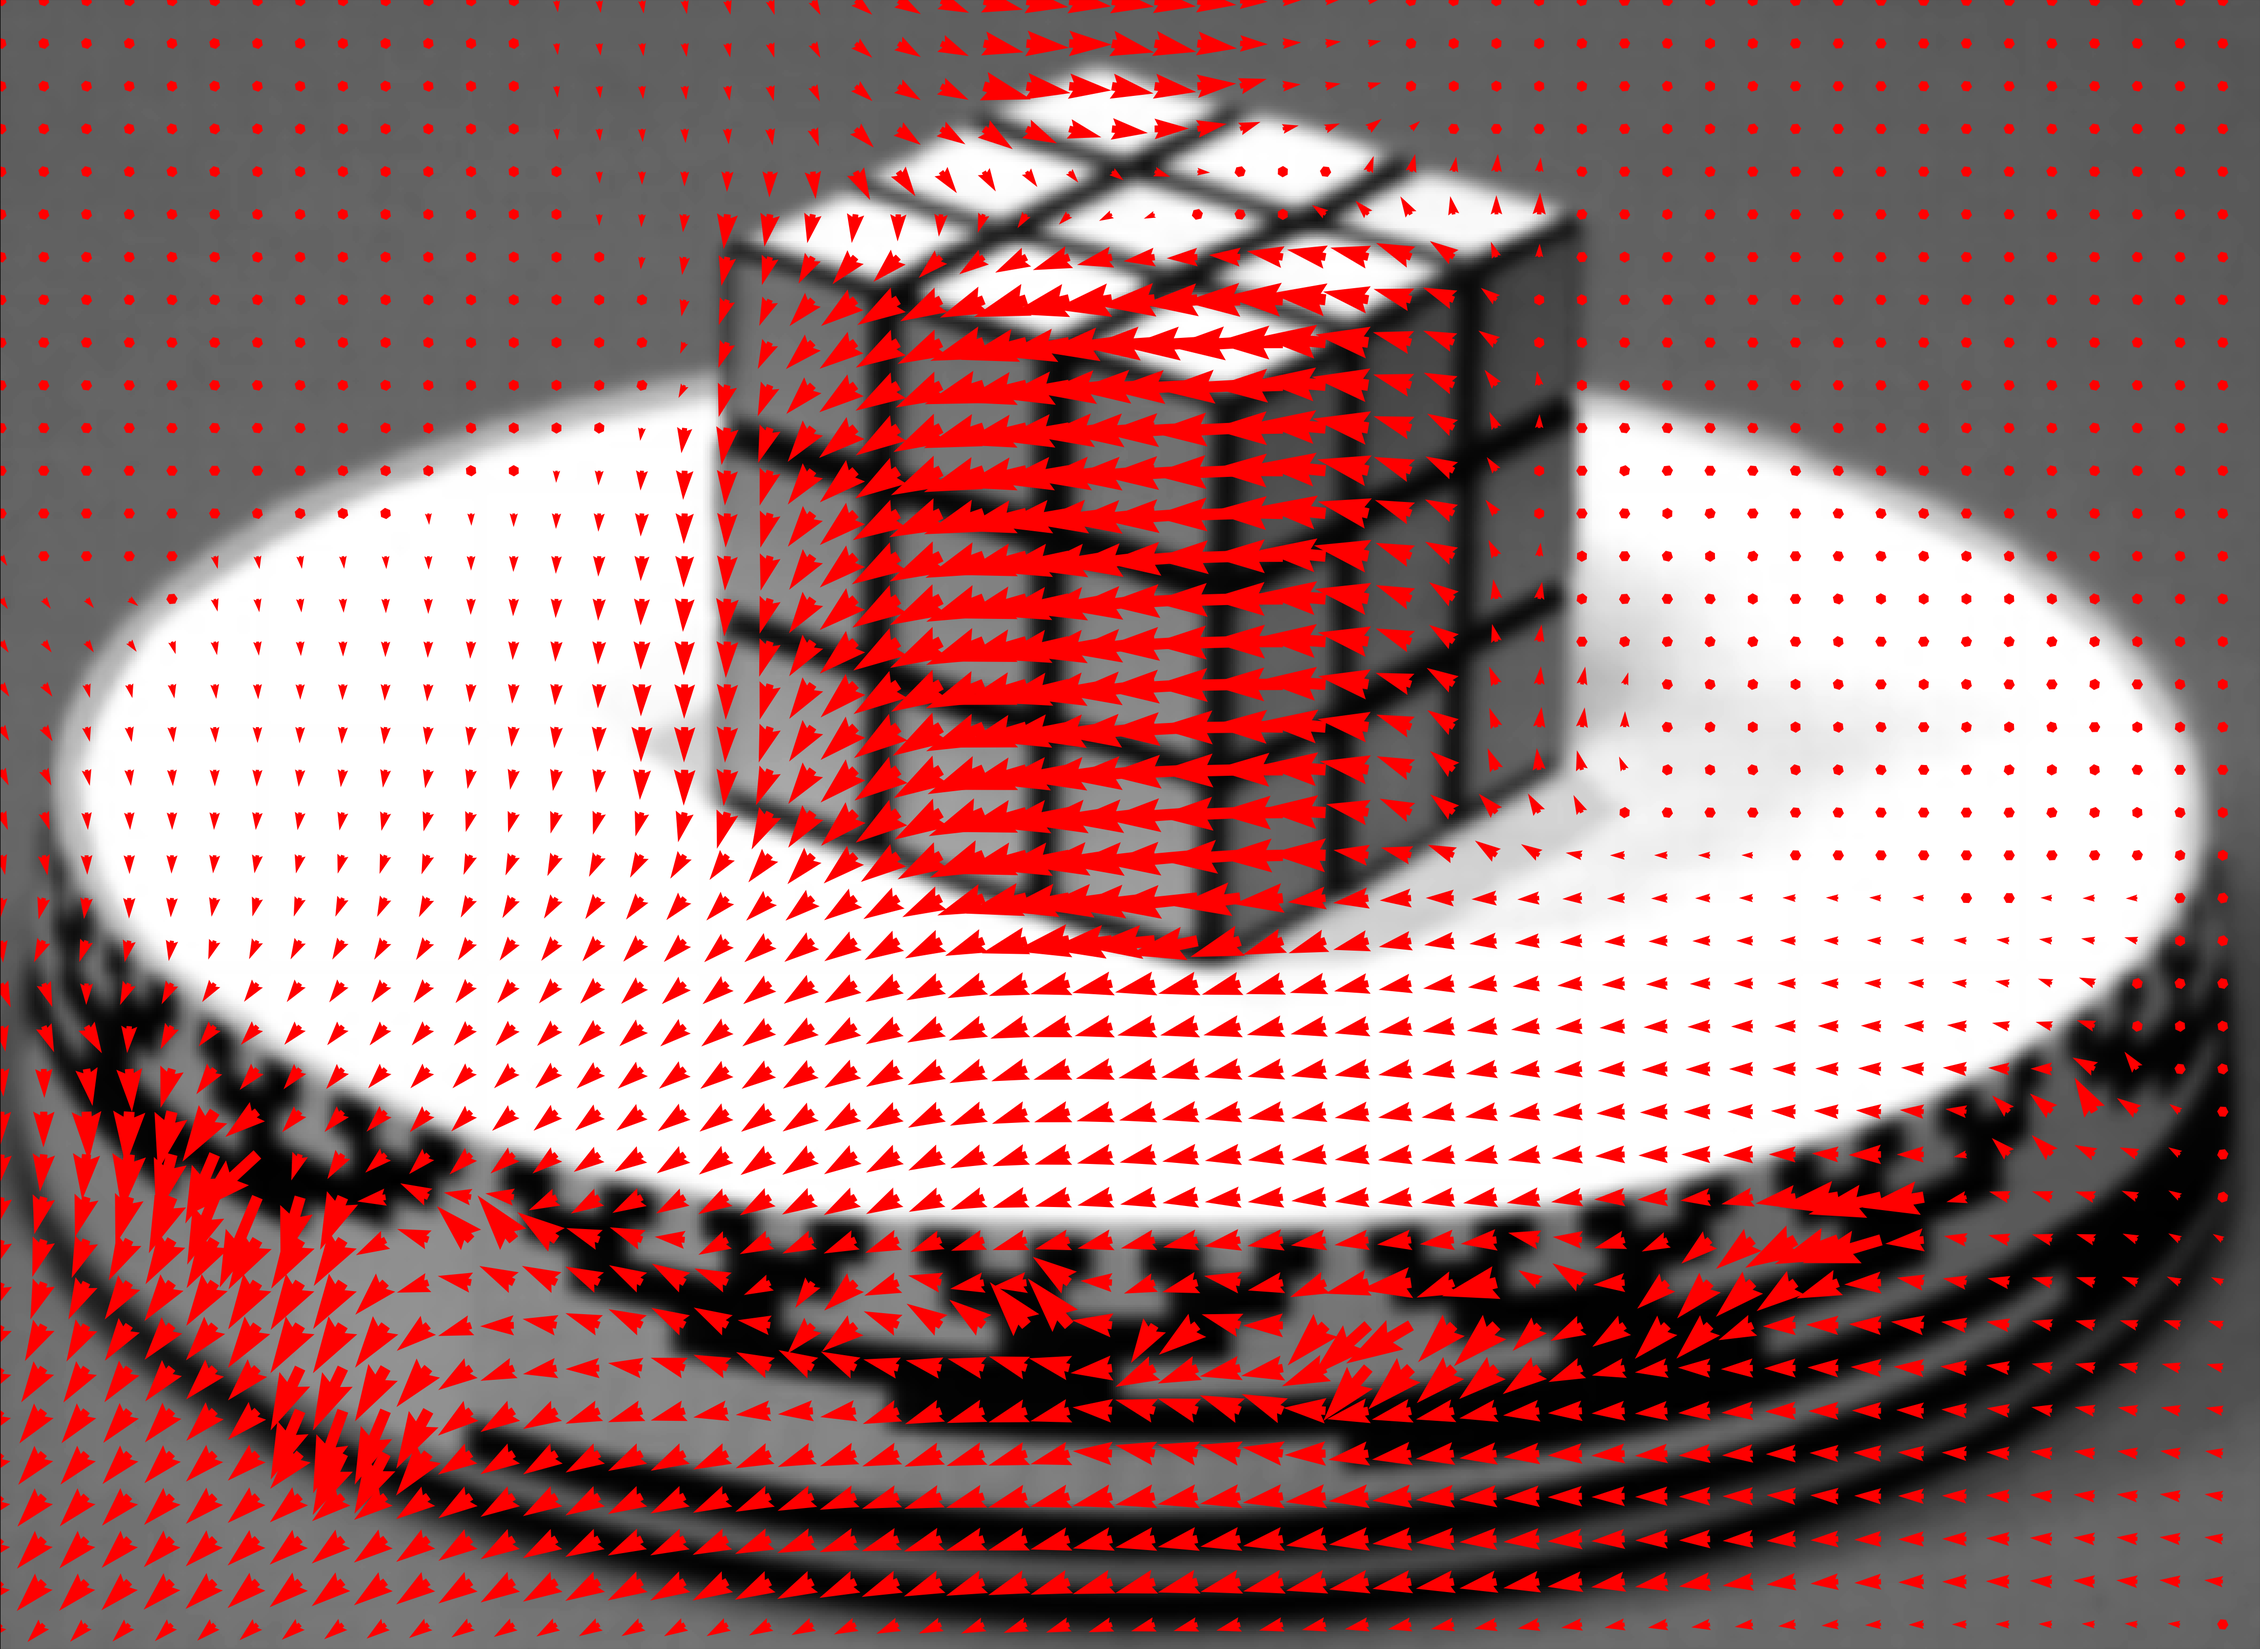
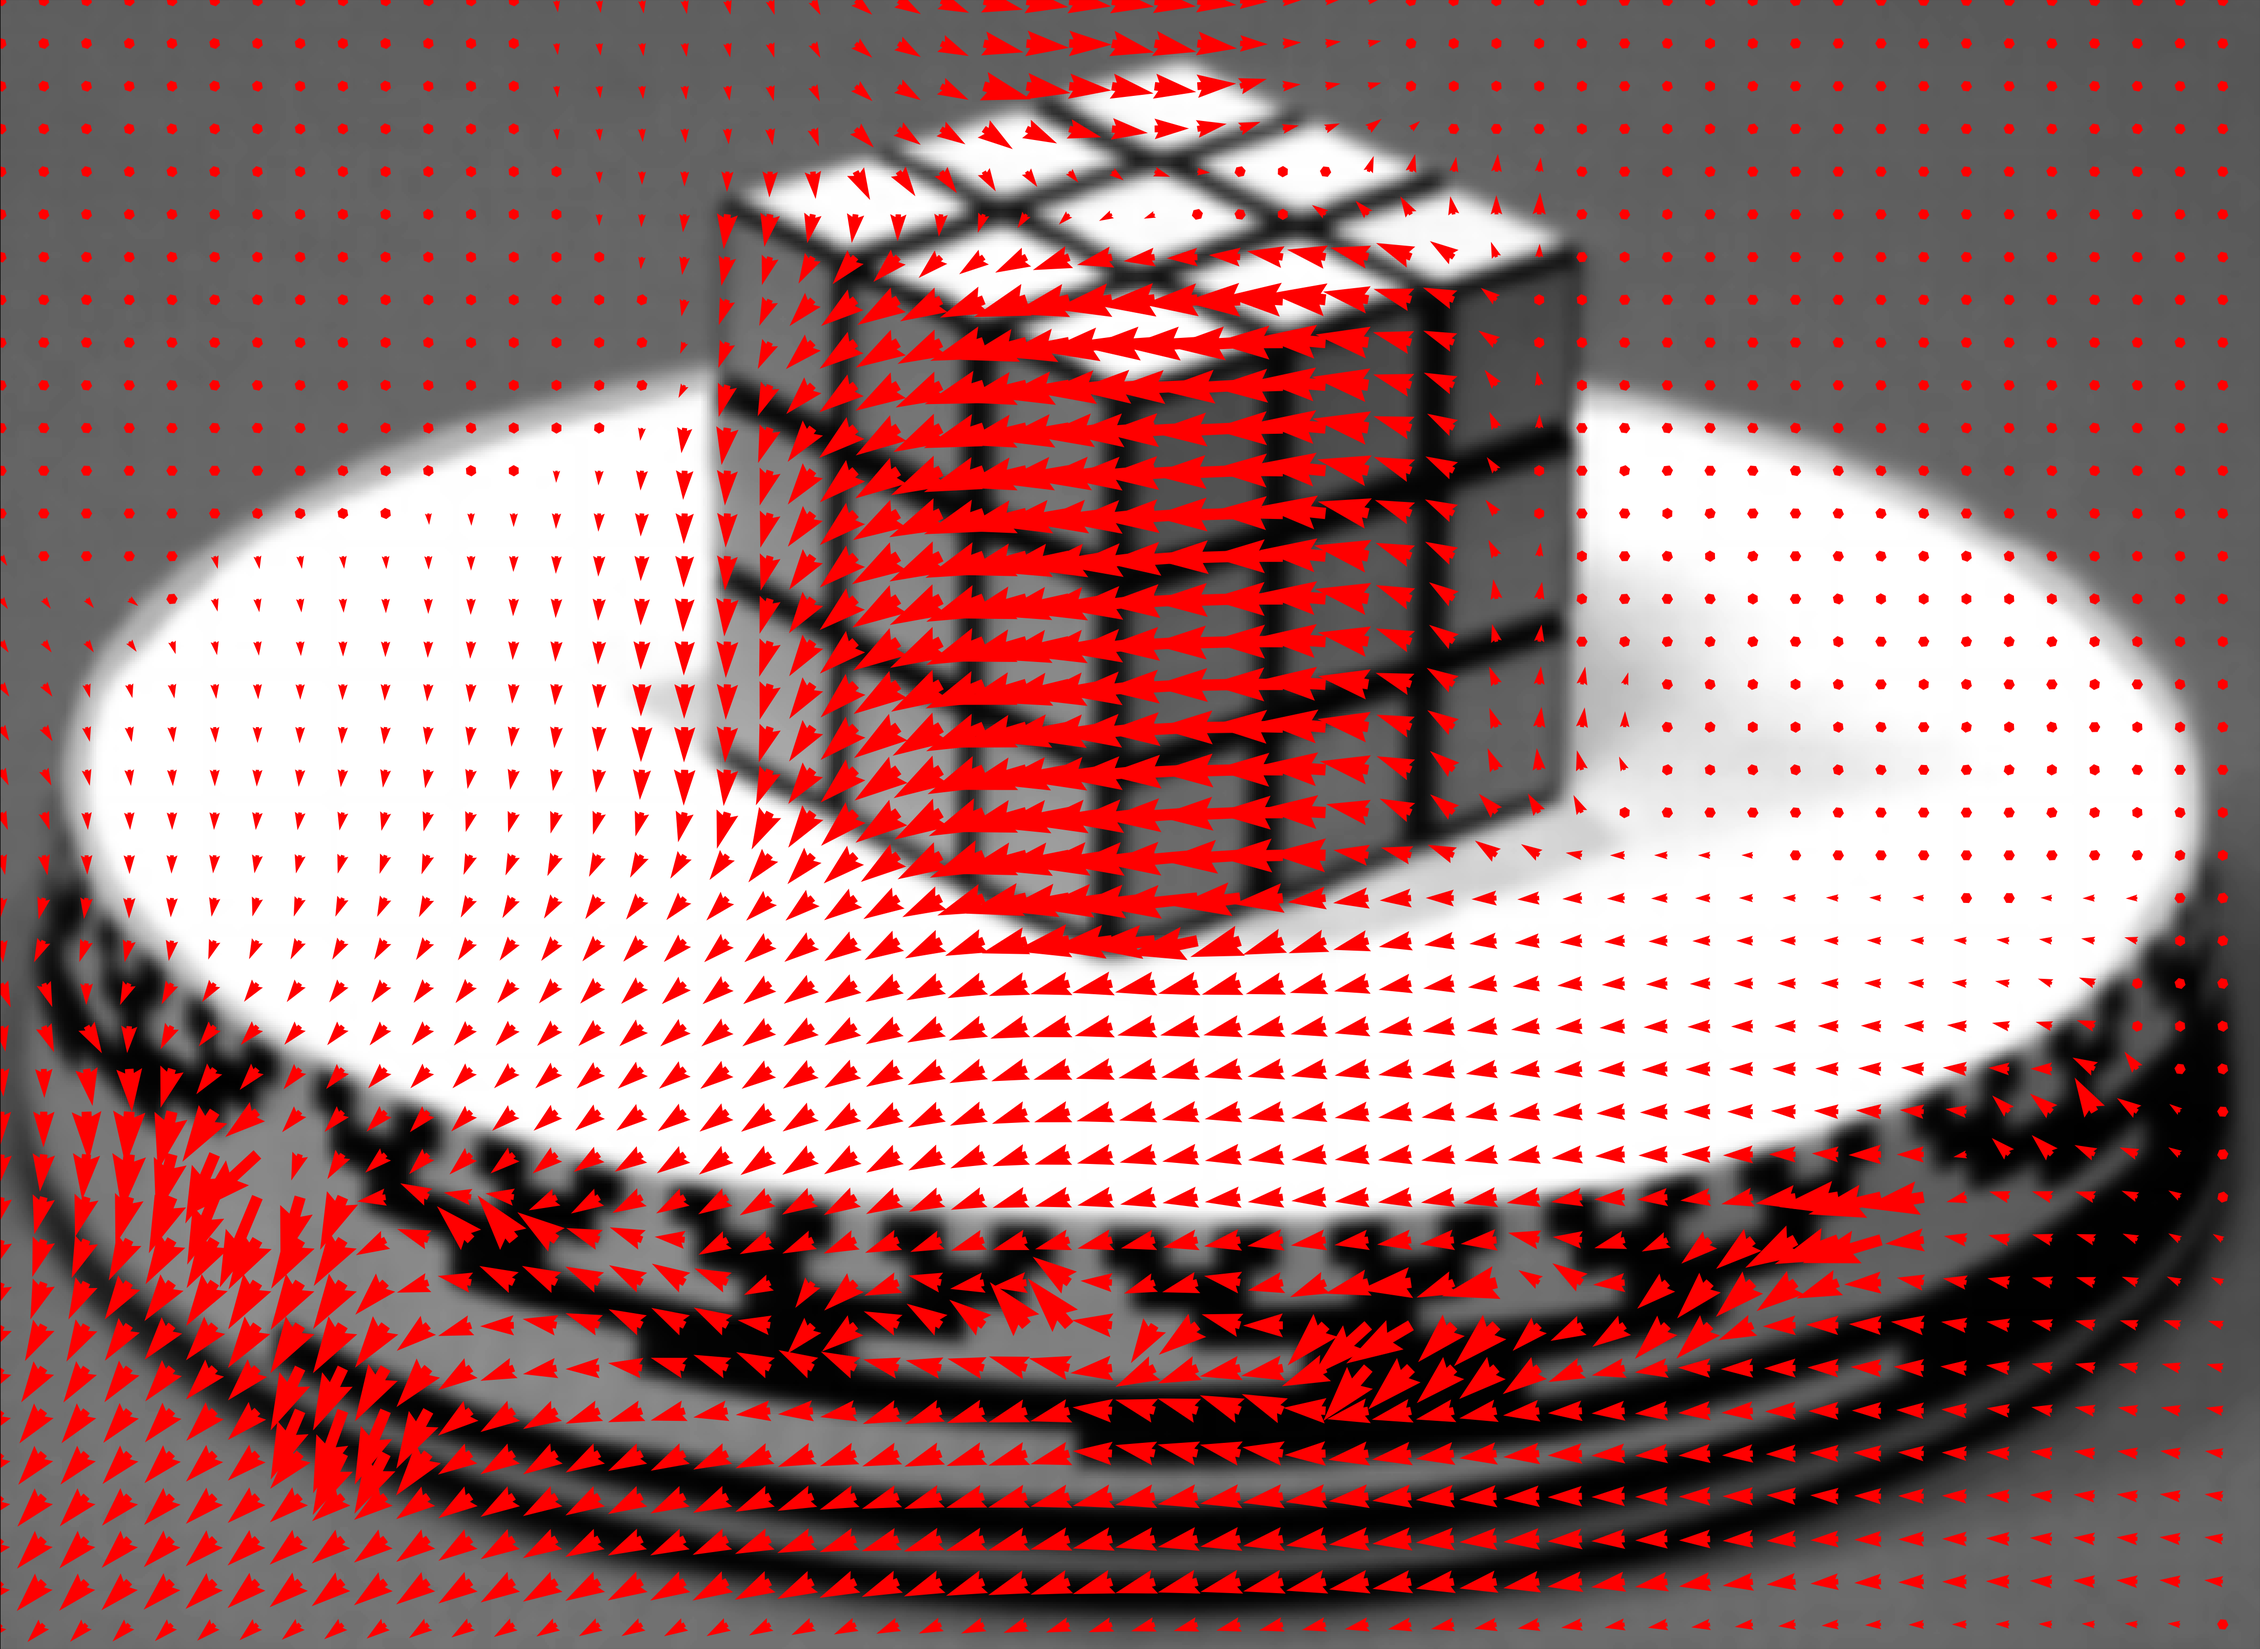
switch cubes

diff --git a/qual/figures/registration/optical_flow/optical.py b/qual/figures/registration/optical_flow/optical.py
@@ -13,8 +13,8 @@ from skimage import io
 # reference_image = rgb2gray(reference_image)
 # moving_image = rgb2gray(moving_image)
 
-reference_image = io.imread("cube2.png", as_gray=True)
-moving_image = io.imread("cube1.png", as_gray=True)
+reference_image = io.imread("cube1.png", as_gray=True)
+moving_image = io.imread("cube2.png", as_gray=True)
 dpi = 24
 px, py = reference_image.shape
 fig = pyplot.figure(figsize=(py / numpy.float(dpi), px / numpy.float(dpi)))
@@ -24,10 +24,7 @@ fig.savefig("moving_image.png", transparent=True)
 ax.imshow(reference_image, cmap="gray")
 fig.savefig("reference_image.png", transparent=True)
 
-shift, error, diffphase = register_translation(reference_image, moving_image)
-print(shift)
-
-flow = optical_flow_tvl1(reference_image, moving_image)
+flow = optical_flow_tvl1(moving_image, reference_image)
 downscale = 20
 flow = skimage.measure.block_reduce(flow, (1, downscale, downscale), numpy.mean)
 
